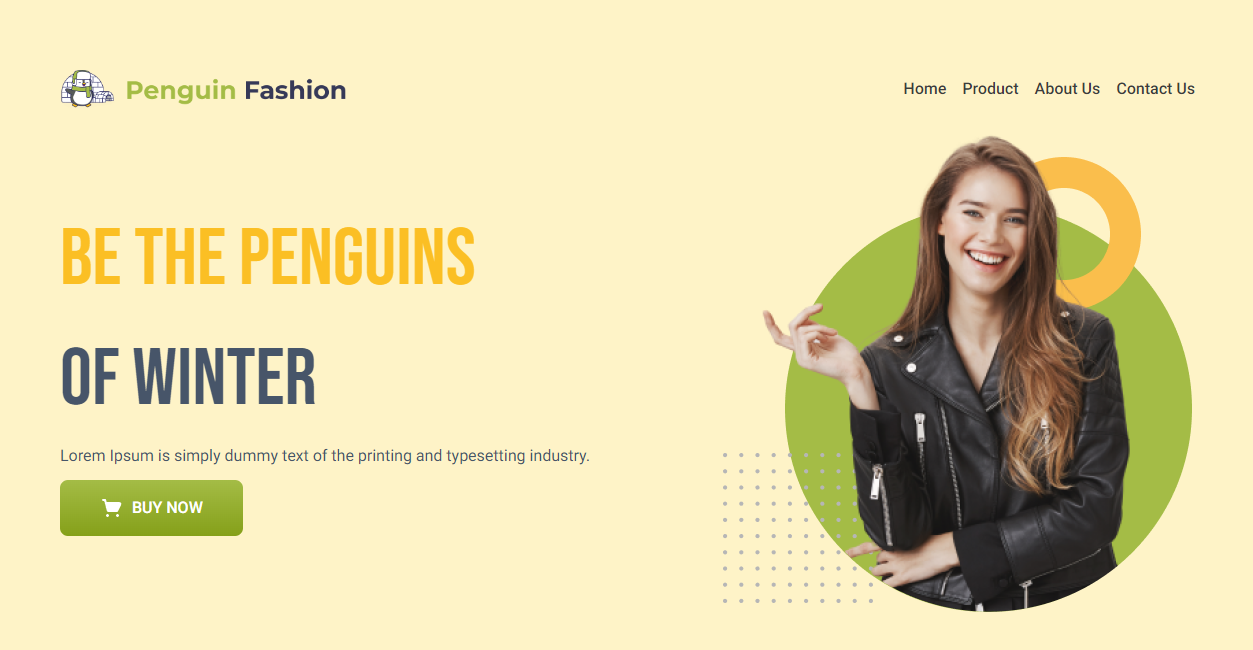
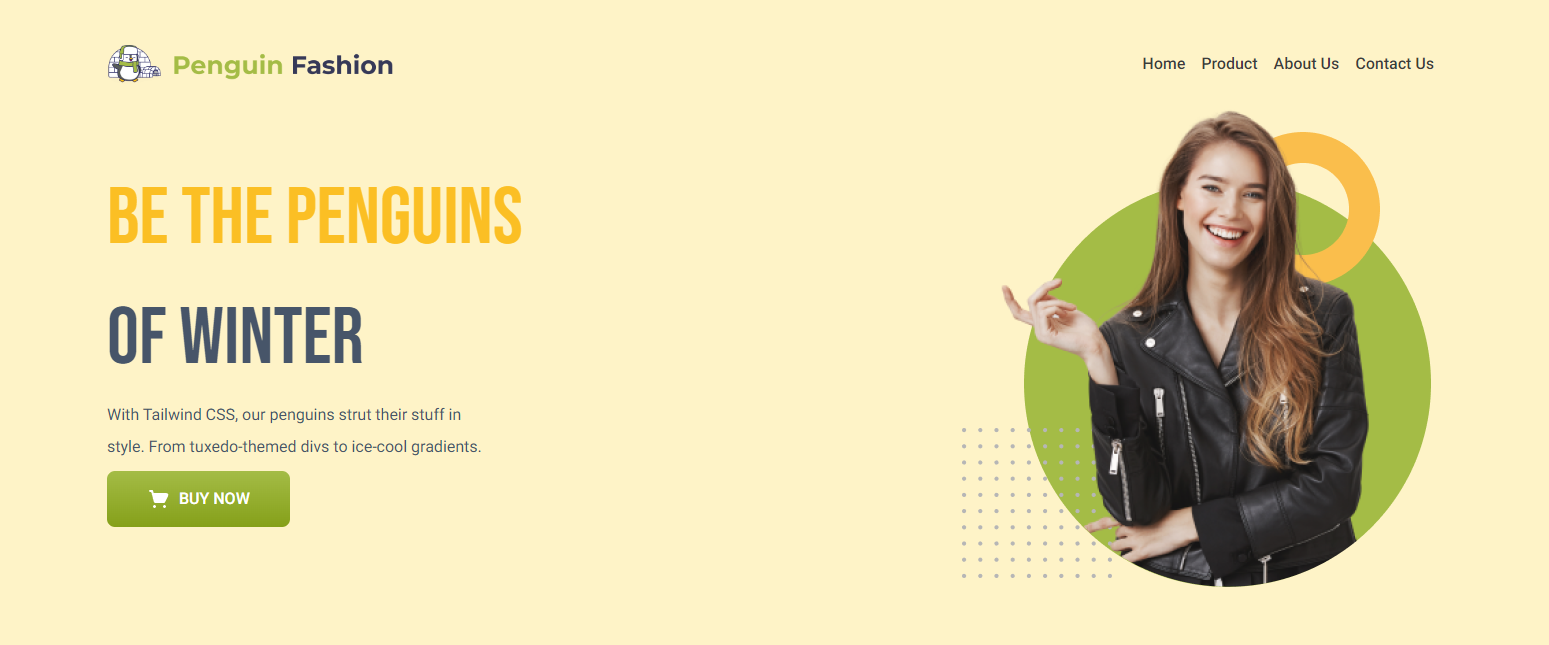
everything is okay

diff --git a/index.html b/index.html
@@ -43,7 +43,7 @@
                 <h1 class="text-[80px] uppercase font-bebas">
                     <span class="text-amber-400">Be the Penguins</span> <br>
                     <span class="text-slate-600">of Winter</span></h1>
-                    <p class="mb-2 font-roboto leading-8 text-slate-600">With Tailwind CSS, our penguins strut their stuff in style. From tuxedo-themed divs to ice-cool gradients, we're making waves in web design.</p>
+                    <p class="mb-2 font-roboto leading-8 text-slate-600 w-96">With Tailwind CSS, our penguins strut their stuff in style. From tuxedo-themed divs to ice-cool gradients.</p>
                         <button class="flex gap-2 uppercase py-4 px-10 rounded-lg bg-gradient-to-b from-[#A4BC46] to-[#85A019] text-white font-medium font-roboto">
                             <svg xmlns="http://www.w3.org/2000/svg" width="24" height="24" viewBox="0 0 24 24" fill="none">
                                 <path d="M21.08 6.99998C20.9072 6.7006 20.6598 6.45111 20.3618 6.27585C20.0639 6.10059 19.7256 6.00554 19.38 5.99998H6.58L6 3.73998C5.9414 3.52181 5.81066 3.32992 5.62908 3.19555C5.44749 3.06118 5.22576 2.99224 5 2.99998H3C2.73478 2.99998 2.48043 3.10533 2.29289 3.29287C2.10536 3.48041 2 3.73476 2 3.99998C2 4.26519 2.10536 4.51955 2.29289 4.70708C2.48043 4.89462 2.73478 4.99998 3 4.99998H4.24L7 15.26C7.0586 15.4781 7.18934 15.67 7.37092 15.8044C7.55251 15.9388 7.77424 16.0077 8 16H17C17.1847 15.9994 17.3656 15.9477 17.5227 15.8507C17.6798 15.7536 17.8069 15.6149 17.89 15.45L21.17 8.88998C21.3122 8.59199 21.3783 8.26345 21.3626 7.93366C21.3469 7.60387 21.2498 7.2831 21.08 6.99998Z" fill="white"/>
@@ -73,8 +73,7 @@
                 <div class="space-y-3 drop-shadow-lg m-4">
                     <img class="bg-gray-200 p-5 rounded-3xl" src="images/jacket-1.png" alt="">
                     <h4 class="text-2xl font-bold text-slate-700">Yellow Coat Jacket </h4>
-                    <p class="text-gray-500">Lorem Ipsum is simply dummy text of the 
-                        printing and typesetting industry.</p>
+                    <p class="text-gray-500">With Tailwind CSS, our penguins strut their stuff in style</p>
                     <div class="flex justify-between items-center">
                         <h3 class="font-black text-4xl text-amber-400">$234</h3>
                         <button class="flex gap-2 uppercase py-4 px-10 rounded-lg bg-gradient-to-b from-[#A4BC46] to-[#85A019] text-white font-medium font-roboto">
@@ -91,9 +90,8 @@
                 <!-- jacket-2 -->
                 <div class="space-y-3 drop-shadow-lg m-4">
                     <img class="bg-gray-200 p-5 rounded-3xl" src="images/jacket-2.png" alt="">
-                    <h4 class="text-2xl font-bold text-slate-700">Yellow Coat Jacket </h4>
-                    <p class="text-gray-500">Lorem Ipsum is simply dummy text of the 
-                        printing and typesetting industry.</p>
+                    <h4 class="text-2xl font-bold text-slate-700">Ladies Jacket</h4>
+                    <p class="text-gray-500">With Tailwind CSS, our penguins strut their stuff in style</p>
                         <div class="flex justify-between items-center">
                             <h3 class="font-black text-4xl text-amber-400">$234</h3>
                             <button class="flex gap-2 uppercase py-4 px-10 rounded-lg bg-gradient-to-b from-[#A4BC46] to-[#85A019] text-white font-medium font-roboto">
@@ -109,9 +107,8 @@
                 <!-- jacket-3 -->
                 <div class="space-y-3 drop-shadow-lg m-4">
                     <img class="bg-gray-200 p-5 rounded-3xl" src="images/jacket-3.png" alt="">
-                    <h4 class="text-2xl font-bold text-slate-700">Yellow Coat Jacket </h4>
-                    <p class="text-gray-500">Lorem Ipsum is simply dummy text of the 
-                        printing and typesetting industry.</p>
+                    <h4 class="text-2xl font-bold text-slate-700">Woman Leather Jacket</h4>
+                    <p class="text-gray-500">With Tailwind CSS, our penguins strut their stuff in style</p>
                         <div class="flex justify-between items-center">
                             <h3 class="font-black text-4xl text-amber-400">$234</h3>
                             <button class="flex gap-2 uppercase py-4 px-10 rounded-lg bg-gradient-to-b from-[#A4BC46] to-[#85A019] text-white font-medium font-roboto">
@@ -137,8 +134,7 @@
                 <div class="space-y-3 drop-shadow-lg m-4">
                     <img class="bg-gray-200 p-5 rounded-3xl" src="images/jacket-4.png" alt="">
                     <h4 class="text-2xl font-bold text-slate-700">Snowboard Jacket Mens</h4>
-                    <p class="text-gray-500">Lorem Ipsum is simply dummy text of the 
-                        printing and typesetting industry.</p>
+                    <p class="text-gray-500">With Tailwind CSS, our penguins strut their stuff in style</p>
                     <div class="flex justify-between items-center">
                         <h3 class="font-black text-4xl text-amber-400">$234</h3>
                         <button class="flex gap-2 uppercase py-4 px-10 rounded-lg bg-gradient-to-b from-[#A4BC46] to-[#85A019] text-white font-medium font-roboto">
@@ -156,8 +152,7 @@
                 <div class="space-y-3 drop-shadow-lg m-4">
                     <img class="bg-gray-200 p-5 rounded-3xl" src="images/jacket-5.png" alt="">
                     <h4 class="text-2xl font-bold text-slate-700">Man Leather Jackets</h4>
-                    <p class="text-gray-500">Lorem Ipsum is simply dummy text of the 
-                        printing and typesetting industry.</p>
+                    <p class="text-gray-500">With Tailwind CSS, our penguins strut their stuff in style</p>
                         <div class="flex justify-between items-center">
                             <h3 class="font-black text-4xl text-amber-400">$234</h3>
                             <button class="flex gap-2 uppercase py-4 px-10 rounded-lg bg-gradient-to-b from-[#A4BC46] to-[#85A019] text-white font-medium font-roboto">
@@ -174,8 +169,7 @@
                 <div class="space-y-3 drop-shadow-lg m-4">
                     <img class="bg-gray-200 p-5 rounded-3xl" src="images/jacket-6.png" alt="">
                     <h4 class="text-2xl font-bold text-slate-700">Man Casual Jackets</h4>
-                    <p class="text-gray-500">Lorem Ipsum is simply dummy text of the 
-                        printing and typesetting industry.</p>
+                    <p class="text-gray-500">With Tailwind CSS, our penguins strut their stuff in style</p>
                         <div class="flex justify-between items-center">
                             <h3 class="font-black text-4xl text-amber-400">$234</h3>
                             <button class="flex gap-2 uppercase py-4 px-10 rounded-lg bg-gradient-to-b from-[#A4BC46] to-[#85A019] text-white font-medium font-roboto">
@@ -208,9 +202,9 @@
                         <img src="icons/box.png" alt="">
                     </div>
                     <div class="text-gray-600">
-                        <h5 class="text-3xl pb-3">Find the Perfect Fit</h5>
-                        <p class="w-64 text-base">Everybody is different, which is why we
-                            offer styles for every body.</p>
+                        <h5 class="text-3xl pb-3">Free Exchanges</h5>
+                        <p class="w-64 text-base">One of the many reasons you can shop
+                            with peace of mind.</p>
                     </div>
                 </div>
                 <div class="flex flex-col lg:flex-row text-center lg:text-left items-center lg:gap-8 px-7 py-5">
@@ -218,9 +212,9 @@
                         <img src="icons/question.png" alt="">
                     </div>
                     <div class="text-gray-600">
-                        <h5 class="text-3xl pb-3">Find the Perfect Fit</h5>
-                        <p class="w-64 text-base">Everybody is different, which is why we
-                            offer styles for every body.</p>
+                        <h5 class="text-3xl pb-3">Contact Our Seller</h5>
+                        <p class="w-64 text-base">They are here to help you. That's quite 
+                            literally what we pay them for.</p>
                     </div>
                 </div>
             </div>
